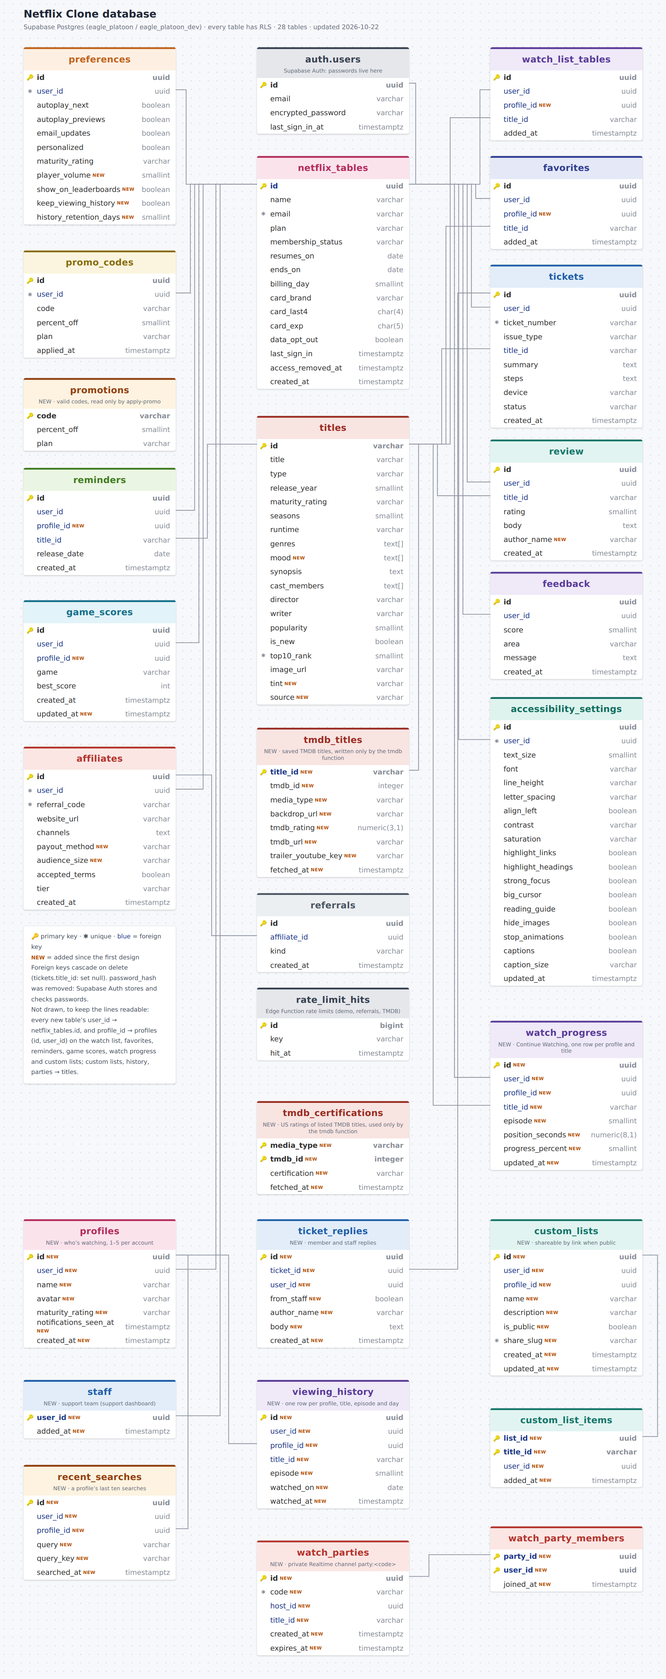
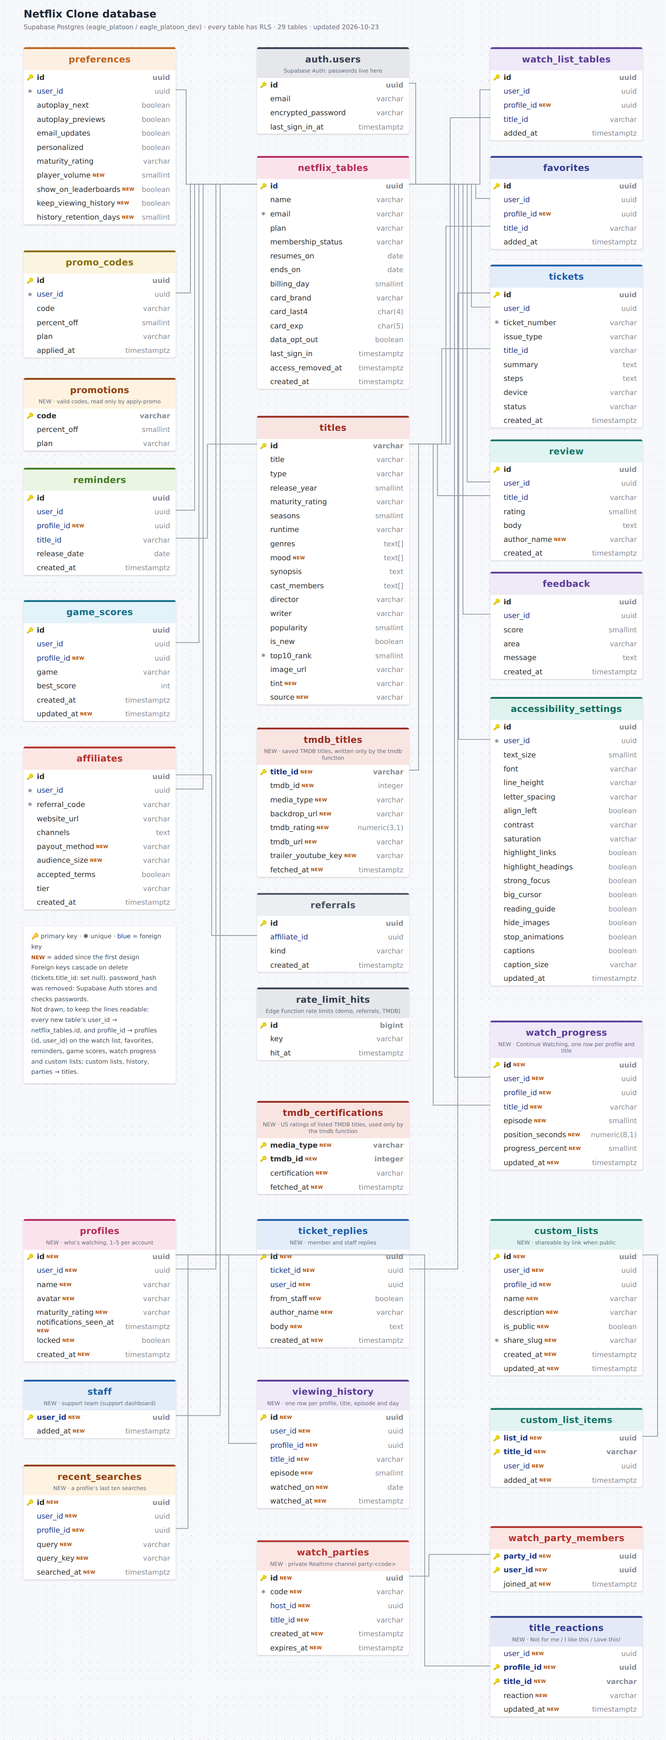
Docs, schema, diagram, user stories and seed data for the seven new features

diff --git a/supabase/diagram/erd.html b/supabase/diagram/erd.html
@@ -55,7 +55,7 @@ const tables = [
   ['tmdb_certifications', 'brick', M, 2330, ['media_type:varchar:pn', 'tmdb_id:integer:pn', 'certification:varchar:n', 'fetched_at:timestamptz:n'], 'NEW · US ratings of listed TMDB titles, used only by the tmdb function'],
   ['watch_progress', 'purple', R, 2160, ['id:uuid:pn', 'user_id:uuid:fn', 'profile_id:uuid:fn', 'title_id:varchar:fn', 'episode:smallint:n', 'position_seconds:numeric(8,1):n', 'progress_percent:smallint:n', 'updated_at:timestamptz:n'], 'NEW · Continue Watching, one row per profile and title'],
   // 2026-10-22: profiles, support, history, custom lists, watch parties, recent searches
-  ['profiles', 'pink', L, 2580, ['id:uuid:pn', 'user_id:uuid:fn', 'name:varchar:n', 'avatar:varchar:n', 'maturity_rating:varchar:n', 'notifications_seen_at:timestamptz:n', 'created_at:timestamptz:n'], 'NEW · who’s watching, 1–5 per account'],
+  ['profiles', 'pink', L, 2580, ['id:uuid:pn', 'user_id:uuid:fn', 'name:varchar:n', 'avatar:varchar:n', 'maturity_rating:varchar:n', 'notifications_seen_at:timestamptz:n', 'locked:boolean:n', 'created_at:timestamptz:n'], 'NEW · who’s watching, 1–5 per account'],
   ['staff', 'blue', L, 2920, ['user_id:uuid:pfn', 'added_at:timestamptz:n'], 'NEW · support team (support dashboard)'],
   ['recent_searches', 'amber', L, 3100, ['id:uuid:pn', 'user_id:uuid:fn', 'profile_id:uuid:fn', 'query:varchar:n', 'query_key:varchar:n', 'searched_at:timestamptz:n'], 'NEW · a profile’s last ten searches'],
   ['ticket_replies', 'blue', M, 2580, ['id:uuid:pn', 'ticket_id:uuid:fn', 'user_id:uuid:fn', 'from_staff:boolean:n', 'author_name:varchar:n', 'body:text:n', 'created_at:timestamptz:n'], 'NEW · member and staff replies'],
@@ -64,6 +64,8 @@ const tables = [
   ['custom_lists', 'teal', R, 2580, ['id:uuid:pn', 'user_id:uuid:fn', 'profile_id:uuid:fn', 'name:varchar:n', 'description:varchar:n', 'is_public:boolean:n', 'share_slug:varchar:un', 'created_at:timestamptz:n', 'updated_at:timestamptz:n'], 'NEW · shareable by link when public'],
   ['custom_list_items', 'teal', R, 2980, ['list_id:uuid:pfn', 'title_id:varchar:pfn', 'user_id:uuid:fn', 'added_at:timestamptz:n']],
   ['watch_party_members', 'red', R, 3230, ['party_id:uuid:pfn', 'user_id:uuid:pfn', 'joined_at:timestamptz:n']],
+  // 2026-10-23: thumbs ratings (profile PINs live in the private schema, outside the API)
+  ['title_reactions', 'indigo', R, 3420, ['user_id:uuid:fn', 'profile_id:uuid:pfn', 'title_id:varchar:pfn', 'reaction:varchar:n', 'updated_at:timestamptz:n'], 'NEW · Not for me / I like this / Love this!'],
 ]
 // [from table, from column, to table, to column]
 const links = [
@@ -80,10 +82,11 @@ const links = [
   ['viewing_history', 'profile_id', 'profiles', 'id'],
   ['custom_list_items', 'list_id', 'custom_lists', 'id'],
   ['watch_party_members', 'party_id', 'watch_parties', 'id'],
+  ['title_reactions', 'profile_id', 'profiles', 'id'],
 ]
 
 const board = document.getElementById('board')
-board.insertAdjacentHTML('beforeend', '<div id="title">Netflix Clone database</div><div id="sub">Supabase Postgres (eagle_platoon / eagle_platoon_dev) · every table has RLS · 28 tables · updated 2026-10-22</div>')
+board.insertAdjacentHTML('beforeend', '<div id="title">Netflix Clone database</div><div id="sub">Supabase Postgres (eagle_platoon / eagle_platoon_dev) · every table has RLS · 29 tables · updated 2026-10-23</div>')
 for (const [name, color, x, y, rows, note] of tables) {
   const [c, bg] = C[color]
   const el = document.createElement('div')

diff --git a/README.md b/README.md
@@ -29,18 +29,21 @@ Without it, the demo account lives in memory and the TMDB sections don't appear.
 
 ## What you can do
 
-- **Browse and watch:** featured carousel with previews, Continue Watching (where you stopped, saved to your account so it follows you to any device; finishing an episode moves you to the next), a Top 10 (the catalog's ranked titles, filled up to ten with TMDB's trending movies and shows), "Because You Liked…" recommendations, and title pages with synopsis, cast, crew, ratings and members' reviews. Every title plays a real sample clip from a Blender open movie, with real English captions, in a player with play/pause, seek, skip 10 seconds, mute and a volume slider (↑/↓ keys; a member's level follows them to any device), speed, previous and next episode for TV shows (Shift+P / Shift+N), full screen, closed captions, keyboard shortcuts and autoplay of the next episode.
+- **Browse and watch:** featured carousel with previews, Continue Watching (where you stopped, saved to your account so it follows you to any device; finishing an episode moves you to the next), a Top 10 (the catalog's ranked titles, filled up to ten with TMDB's trending movies and shows), "Because You Liked…" recommendations, and title pages with synopsis, cast, crew, ratings and members' reviews. Every title plays a real sample clip from a Blender open movie, with real English captions, in a player with play/pause, seek, skip 10 seconds, mute and a volume slider (↑/↓ keys; a member's level follows them to any device), speed, previous and next episode for TV shows (Shift+P / Shift+N), full screen, picture-in-picture, closed captions, keyboard shortcuts and autoplay of the next episode. Shows offer Skip Recap and Skip Intro, the progress bar marks chapters, and pointing at it previews the frame there.
 - **Discover real titles:** new, trending and popular movies and TV shows from TMDB on Home (New on TMDB alternates new movies in theaters with TV shows airing this week), TMDB titles in Search (all of them to browse with no query, or matches for a query) with the same Type, Released, genre and Sort filters, and a TMDB page for each with its poster, overview, rating, maturity rating, length, cast and crew, its trailer (from YouTube, loaded only when you press Play trailer), where to stream, rent or buy it in the U.S. (from JustWatch) and More Like This. Members can add TMDB titles to My List and Favorites and rate and review them; saving one adds a "Because You Saved…" row on Home. TMDB titles carry their real U.S. ratings, so restricted profiles see the ones that fit. They can't be played.
+- **Rate in one tap:** Not for me, I like this or Love this! on any title, per profile. Loved and liked titles shape Because You Liked; Not for me keeps a title out of recommendations.
+- **Ask what to watch:** describe what you're in the mood for ("something tense under two hours") and get up to five titles with a reason each, picked by Claude (Anthropic's AI) from the titles your profile can watch, or by matching your words when the AI service isn't available.
+- **Look back:** Year in Review sums up a profile's year (titles, episodes, hours, streak, busiest month, top genres, the actor seen most) with a summary to share.
 - **Scroll rows with a mouse:** every row on Home and More Like This has ‹ › buttons that page through it, besides swiping.
 - **Find titles:** search by title, cast or genre (misspellings still find the title: "nite shift" → Night Shift), with suggestions for titles, people and genres while you type and your recent searches when the box is empty; filter by genre, type and release year; sort by popularity, date or A–Z.
-- **Profiles:** up to five per account, including Kids profiles; each has its own lists, Continue Watching, history, game scores and maturity rating.
+- **Profiles:** up to five per account, including Kids profiles; each has its own lists, Continue Watching, history, game scores, thumbs ratings and maturity rating. Any profile can be locked with a four-digit PIN, and Kids profiles ask a grown-up for the account password before account or profile settings open.
 - **People and episodes:** actor and director pages (from TMDB, or everything a catalog actor is in); every show lists its seasons and episodes, and any episode can be played.
 - **Watch together:** start a watch party and share the invite link: play, pause and skipping happen for everyone, with who's watching and a chat (Supabase Realtime, members only).
 - **Lists and reminders:** your own named lists, shareable by link with anyone; reminders for films not out yet and a notifications bell for releases and support replies.
 - **Your history, your call:** viewing activity by day that you can hide, download, pause or have deleted after 90 days or a year.
 - **Install it:** add the app to your home screen or desktop; pages you've opened work offline.
 - **Save:** Watch list and Favorites pages (catalog and TMDB titles), custom lists, plus sharing links to titles.
-- **Sign in safely:** Supabase Auth sign-up and sign-in, strong password rules (13+ characters with lowercase, uppercase, a digit and a symbol; leaked passwords are rejected), and a **Forgot password** page that emails a reset link.
+- **Sign in safely:** Supabase Auth sign-up and sign-in, strong password rules (13+ characters with lowercase, uppercase, a digit and a symbol; leaked passwords are rejected), a **Forgot password** page that emails a reset link, optional **two-step sign-in** with an authenticator app (until the code is entered, the database shows none of your data), and a list of signed-in devices you can sign out.
 - **Manage your account:** profile, password, plan, billing (payment method, billing date, pause, cancel), autoplay previews and next episode, maturity rating, privacy permissions, and a danger zone to delete your account.
 - **Make it work for you:** an accessibility menu on every page with one-tap profiles and settings for text size, readable and dyslexia-friendly fonts, spacing, contrast, color, link and heading highlights, focus outline, big cursor, reading guide, hiding images, stopping animations and captions. Members' settings are saved and come back at sign-in.
 - **Get help:** support hub with live chat, FAQs, feedback, issue reporting with ticket numbers from the database (and support's replies, which you can answer), technical requirements and a maintenance banner. Support staff work the tickets on a support dashboard.
@@ -69,10 +72,10 @@ refresh; signing out removes it.
 
 | Piece | What it does |
 | --- | --- |
-| Postgres tables | 28 tables in `public` ([`schema.sql`](schema.sql), diagram [`drawsql.png`](drawsql.png)) with row-level security: catalog titles and reviews (including ratings) are readable by anyone, as are the TMDB titles members save (`tmdb_titles`, written only by the `tmdb` function); private account data, lists, watch progress and preferences (including the player volume and the leaderboard opt-in) are owner-only; leaderboards are read through `game_leaderboard()`, which returns opted-in first names and scores only; promotions, rate-limit hits and TMDB certifications are server-only |
+| Postgres tables | 29 tables in `public` ([`schema.sql`](schema.sql), diagram [`drawsql.png`](drawsql.png)) with row-level security: catalog titles and reviews (including ratings) are readable by anyone, as are the TMDB titles members save (`tmdb_titles`, written only by the `tmdb` function); private account data, lists, watch progress and preferences (including the player volume and the leaderboard opt-in) are owner-only; leaderboards are read through `game_leaderboard()`, which returns opted-in first names and scores only; promotions, rate-limit hits and TMDB certifications are server-only |
 | Supabase Auth | Sign-up, sign-in, password reset emails and password rules; the sign-up trigger creates the member's account, preferences and referral sign-up |
-| Edge Functions | `demo-account` (private demo accounts), `delete-account` (removes access), `apply-promo` (checks codes against `promotions`), `record-referral` (counts link clicks), `tmdb` (new, trending, popular, search and title details from TMDB with trailers, U.S. watch providers and U.S. certifications, `recommendations`, and `save`, which stores a TMDB title a signed-in member adds to a list, with the key in the project's `TMDB_API_FREE` setting); the public ones are rate limited per IP (for `tmdb`, only requests its cache can't answer count). `hello` and `multiply` are small public test endpoints. Production and dev run the same functions and migrations |
-| Database functions | `game_leaderboard()`, `staff_tickets()` / `staff_set_ticket_status()` (support staff only), `shared_list()` (public lists), `join_watch_party()`, `search_titles()` (typo-tolerant, pg_trgm), called as `/rest/v1/rpc/<name>` |
+| Edge Functions | `demo-account` (private demo accounts), `delete-account` (removes access), `apply-promo` (checks codes against `promotions`), `record-referral` (counts link clicks), `tmdb` (new, trending, popular, search and title details from TMDB with trailers, U.S. watch providers and U.S. certifications, `recommendations`, and `save`, which stores a TMDB title a signed-in member adds to a list, with the key in the project's `TMDB_API_FREE` setting); the public ones are rate limited per IP (for `tmdb`, only requests its cache can't answer count). `assistant` (What should I watch?: Claude picks from the profile's allowed titles, with the key in the project's `ANTHROPIC_API_KEY` setting; signed in and rate limited). `hello` and `multiply` are small public test endpoints |
+| Database functions | `game_leaderboard()`, `staff_tickets()` / `staff_set_ticket_status()` (support staff only), `shared_list()` (public lists), `join_watch_party()`, `search_titles()` (typo-tolerant, pg_trgm), `year_in_review()`, `set_profile_pin()` / `unlock_profile()` / `verify_account_password()` (PINs are bcrypt hashes outside the API), `my_sessions()` / `end_session()` (signed-in devices), called as `/rest/v1/rpc/<name>`. With two-step sign-in on, a restrictive policy on every table (`second_step_done()`) blocks a session until its code is entered |
 | Realtime | Watch parties: a private channel per party (`party:<code>`) for play/pause sync, presence and chat; RLS on `realtime.messages` admits only the party's members |
 | Cron jobs | Delete demo accounts after 24 hours; delete old rate-limit hits; delete viewing history past each member's limit; delete ended watch parties |
 | Projects | **eagle_platoon** (production) and **eagle_platoon_dev** (development, e2e tests and seed data) |

diff --git a/CLAUDE.md b/CLAUDE.md
@@ -27,16 +27,17 @@ netflix_clone/        The Vite app — run all npm commands here
 supabase/             Supabase CLI project (config.toml); MCP config in supabase/.mcp.json (not committed)
   migrations/         Schema + RLS, catalog titles, auth support (triggers, promotions, cleanup cron), rate limits,
                       saved TMDB titles, watch progress and leaderboards, profiles, support dashboard, notifications,
-                      viewing history, custom lists, watch parties (Realtime RLS), better search (pg_trgm)
+                      viewing history, custom lists, watch parties (Realtime RLS), better search (pg_trgm), thumbs
+                      ratings, Year in Review, profile locks, two-step sign-in (restrictive policies, devices)
   non_transactional/  CREATE INDEX CONCURRENTLY files: apply with psql after migrations (the CLI can't run them)
                       (Index Advisor is installed on both projects: dashboard → Query Performance suggests missing ones)
-  functions/          Edge Functions: demo-account, delete-account, apply-promo, record-referral, tmdb (+ _shared/: clients,
-                      CORS, caller check, per-IP rate limits via public.hit_rate_limit); hello and multiply are
+  functions/          Edge Functions: demo-account, delete-account, apply-promo, record-referral, tmdb, assistant (+ _shared/:
+                      clients, CORS, caller check, per-IP rate limits via public.hit_rate_limit); hello and multiply are
                       standalone public test endpoints
   seeds/              Development test data (6 example.com users, rows in every table); never run on production
   tests/database/     pgTAP tests (`supabase test db`): access rules, triggers, cleanup job, rate limiter, indexes
   diagram/            erd.html (source of drawsql.png) + render.mjs (`node supabase/diagram/render.mjs` redraws it)
-schema.sql, drawsql.png  The table design and its diagram, kept in step with the migrations (all 28 public tables)
+schema.sql, drawsql.png  The table design and its diagram, kept in step with the migrations (all 29 public tables)
 user_stories.md       What the database stores, one story per thing the app remembers
 prompt.md             The original build prompt and the Supabase-phase prompts
 .github/workflows/    CI: lint, build, Playwright; pgTAP against a local Supabase (Docker)
@@ -45,8 +46,9 @@ prompt.md             The original build prompt and the Supabase-phase prompts
 Supabase projects (org "Zuleika LLC", Pro plan): **eagle_platoon** `czgzptjegmkvrxnxduxs` = production,
 **eagle_platoon_dev** `cfcbhwwpslgxjpijdnfy` = development and e2e tests (has the seed data). Apply every migration,
 non_transactional file and function to dev first, then production, with the same migration version on both.
-Both run all 15 migrations (through `20261022060000_better_search`), non_transactional 001–007 and the same 7
-functions (production caught up 2026-10-21). `apply_migration` stamps the current time as the version: afterwards set
+Dev runs all 19 migrations (through `20261023030000_two_step_sign_in`), non_transactional 001–008 and 8 functions
+(with `assistant`); production runs the first 15 (through `20261022060000_better_search`), 001–007 and 7 functions.
+The `assistant` function needs the `ANTHROPIC_API_KEY` secret on each project (without it the app matches words). `apply_migration` stamps the current time as the version: afterwards set
 it to the file's version in `supabase_migrations.schema_migrations`, and apply one migration per second or less often,
 or two get the same stamp and the second fails on the duplicate version.
 Each project needs the `TMDB_API_FREE` Edge Function secret for `tmdb` (the dashboard can't show it back; the value
@@ -97,6 +99,9 @@ locally (it isn't installed in this WSL distro, so CI is where these run today).
 | (extra) Custom lists | `/lists`, `/lists/:listId`, `/shared/:slug` (public) | `pages/MyLists.jsx`, `ListDetail.jsx`, `SharedList.jsx`, `components/AddToList.jsx` |
 | (extra) Watch party | `/party/:code` | `pages/WatchParty.jsx`, `state/usePartyChannel.js`, `data/partyApi.js` |
 | (extra) Support dashboard (staff) | `/support-dashboard` | `pages/SupportDashboard.jsx`, `state/useSupportQueue.js`, `data/supportApi.js` |
+| (extra) Year in Review | `/year-in-review` | `pages/YearInReview.jsx`, `data/yearInReview.js` |
+| (extra) What should I watch? (assistant) | `/what-to-watch` | `pages/Assistant.jsx`, `data/assistant.js`, `supabase/functions/assistant` |
+| (extra) Security (two-step sign-in, devices) | in `/account` | `pages/account/Security.jsx`, `data/totp.js`, `data/devices.js` |
 
 When the outline changes: diff `app_outline/user_journey.md` (`git diff --word-diff`), map each change to this
 table, add or extend the page, add `/info/<slug>` pages to `data/infoPages.js` (that also adds the footer link)
@@ -228,6 +233,28 @@ after editing.
 - **Installable app**: `public/sw.js` (shell + hashed assets cached; network-first pages; leaves /media, other origins
   and non-GET alone) is registered in production builds (`lib/pwa.js`); the install prompt is in Account → App.
   Bump `VERSION` in sw.js when its caching rules change. Playwright blocks service workers except in `pwa.spec.js`.
+- **Thumbs ratings**: `title_reactions` per profile (`dislike`/`like`/`love`), `components/TitleReaction.jsx` on both
+  title pages, helpers in `data/reactions.js`. Loves, then favorites, then likes seed Because You Liked; `notDisliked`
+  filters every recommendation row (not Continue Watching or Top 10) and the assistant's candidates.
+- **Player extras**: `data/clips.js` gives each clip `recap`/`intro` ranges (Skip Recap from episode 2, Skip Intro;
+  key S) and `chapters`; seek previews come from `public/media/<clip>.thumbs.jpg`, drawn by
+  `node scripts/thumbnails.mjs` (re-run it when a clip changes; `THUMBS` in clips.js must match). Picture-in-picture
+  (key I) sits beside Close: the controls row is full at 390px.
+- **Profile locks / Kids**: PIN hashes live in `private.profile_pins`; `profiles.locked` changes only through
+  `set_profile_pin()` (a trigger keeps it otherwise). `unlock_profile()` returns `ok`/`wrong`/`locked` (five wrong →
+  15 minutes). `ProfileProvider` keeps unlocked profiles until another is chosen and never remembers a locked one per
+  device; `components/GrownUpGate.jsx` asks for the account password on Kids profiles (Account, profile settings).
+  `verify_account_password()` (10 per 15 minutes) also backs Change password with Supabase: signing in again would
+  replace the session and need a two-step code.
+- **Two-step sign-in**: Supabase Auth MFA (TOTP; on in `config.toml` and on both projects). With a verified factor a
+  password sign-in or restored session is aal1: the provider sets `secondStep` and Login asks for the code
+  (`verifySecondStep`). A restrictive policy "Two-step sign-in finished" on every RLS table (`second_step_done()`)
+  blocks aal1 sessions; give new tables the same policy. `callerFrom()` in the functions refuses them too. Memory mode
+  uses `data/totp.js` (the tests compute codes with it). Devices: `my_sessions()` / `end_session()` over auth.sessions.
+- **Assistant**: `supabase/functions/assistant` asks Claude (`claude-haiku-5-5`, structured output via the SDK's Zod
+  helper) to pick up to five of the profile's allowed titles; ids it invents are dropped. Signed-in only, 20/hour per
+  member and 60/hour per IP. Only the request and liked titles' names are sent. Any failure (or no key, or memory
+  mode) falls back to `matchWords()` in `data/assistant.js`, and the page says which answered.
 - **Form state**: update with functional setters and read `e.target.value` before them
   (`(e) => { const { value } = e.target; setForm((f) => ({ ...f, key: value })) }`): with transitions pending, a
   spread of the render's `form` can restore an older value.
@@ -263,6 +290,10 @@ after editing.
 - Specs for the ten features: `profiles.spec.js`, `support.spec.js`, `lists.spec.js`, `party.spec.js` (two tabs),
   `search.spec.js`, `pwa.spec.js`; people, episodes and history are in `features.spec.js`, TMDB people, seasons and
   release reminders in `tmdb.spec.js`; `supabase-auth.spec.js` checks lists and watch parties against the dev project.
+- The seven after that: thumbs ratings, Year in Review and the assistant in `features.spec.js`; skips, chapters, seek
+  previews and picture-in-picture in `accessibility.spec.js`; PINs and Kids in `profiles.spec.js`; two-step sign-in and
+  devices in `auth.spec.js`; all of them against the dev project (real TOTP) in `supabase-auth.spec.js`; database rules
+  in `supabase/tests/database/seven_features.test.sql`.
 - Header buttons are matched by exact name in tests (`'Accessibility menu', exact: true`), since "Close accessibility
   menu" also contains it.
 

diff --git a/netflix_clone/README.md b/netflix_clone/README.md
@@ -99,12 +99,13 @@ Tests serve the built app with `e2e/serve.js`, a tiny static server with SPA fal
 | Area | Routes | Highlights |
 | --- | --- | --- |
 | Auth | `/login`, `/signup`, `/logout`, `/forgot-password`, `/reset-password` | Supabase Auth (or in-memory accounts); sign-in guard that returns you to the page you wanted; plan picker; strict password rules; password reset by email; accessible inline validation |
-| Browse | `/`, `/title/:id`, `/search`, `/new` | Featured carousel with previews, maintenance banner, TV/Movie filters, Continue Watching (saved per member), Top 10, "Because You Liked…" recommendations, mock player with captions and full controls, ratings & members' reviews, share, URL-driven search filters |
+| Browse | `/`, `/title/:id`, `/search`, `/new` | Featured carousel with previews, maintenance banner, TV/Movie filters, Continue Watching (saved per member), Top 10, "Because You Liked…" recommendations, player with captions, full controls, Skip Recap / Skip Intro, chapters, seek previews and picture-in-picture, thumbs ratings, ratings & members' reviews, share, URL-driven search filters |
 | TMDB | `/tmdb/:type/:tmdbId` | Trending and popular movie and TV rows on Home, TMDB results in Search, and a page per TMDB title (poster, overview, rating, maturity, length, cast, crew, link to TMDB, trailer, where to watch, My List and Favorite, ratings and reviews, More Like This), all through the `tmdb` Edge Function |
-| Profiles & people | `/profiles`, `/people/:name`, `/tmdb/person/:personId` | Who's watching (1–5 profiles, Kids), actor and director pages |
+| Profiles & people | `/profiles`, `/people/:name`, `/tmdb/person/:personId` | Who's watching (1–5 profiles, Kids, PIN locks; Kids profiles ask a grown-up before settings), actor and director pages |
+| Discover | `/what-to-watch`, `/year-in-review` | What should I watch? (Claude via the `assistant` function, or word matching), Year in Review with a shareable summary |
 | Together | `/lists`, `/lists/:listId`, `/shared/:slug`, `/party/:code` | Custom lists shareable by link (public page for anyone), watch parties over Supabase Realtime with presence and chat |
 | Activity | `/notifications`, `/history`, `/support-dashboard` | Notifications bell (released reminders, support replies), viewing activity with privacy controls, the support team's ticket queue |
-| Library | `/my-netflix`, `/watchlist`, `/favorites`, `/account` | Watch list & Favorites pages; profile, password, plan, billing (payment method, billing date, pause, cancel), autoplay, maturity, accessibility and privacy settings, danger zone (delete account) |
+| Library | `/my-netflix`, `/watchlist`, `/favorites`, `/account` | Watch list & Favorites pages; profile, password, plan, billing (payment method, billing date, pause, cancel), autoplay, maturity, accessibility and privacy settings, Security (two-step sign-in, signed-in devices), danger zone (delete account) |
 | Games | `/games`, `/games/:gameId` | Poster Match (`memory`), Plot Twist (`trivia`), Timeline (`timeline`), Cast Call (`cast`), Higher or Lower (`higher-lower`) and Title Scramble (`scramble`), with best scores (saved with Supabase) and opt-in leaderboards (first names only) |
 | Help & legal | `/info/:slug` | Support hub with live-chat mock, FAQs, Feedback, Issue Reporting, Promotions (working promo codes), Technical Requirements, AI Integration, Affiliate Program (join, referral dashboard, tiered commissions, marketing materials), Legal & Privacy hub, Terms, Privacy, Do Not Sell, Accessibility Policy |
 

diff --git a/user_stories.md b/user_stories.md
@@ -60,3 +60,10 @@ These stories are what the Supabase database stores (see `schema.sql`, `drawsql.
 52. As a member, I want to start a watch party for a title and invite friends by link, so that play, pause and skipping happen for all of us, we see who's watching and can chat; only the party's members can join it, and it ends after six hours.
 53. As a user, I want search to find titles even when I misspell them, so that a typo doesn't hide what I'm looking for.
 54. As a member, I want my recent searches (the last ten, per profile) to come back in an empty search box until I clear them, so that I can repeat a search quickly.
+55. As a member, I want to rate a title Not for me, I like this or Love this! in one tap, so that recommendations follow my taste and titles I don't want stop being suggested to my profile.
+56. As a viewer of a TV show, I want Skip Recap and Skip Intro buttons, chapter marks on the progress bar and a picture of the frame I'm pointing at, so that I get to the part I want quickly; and picture-in-picture, so that I can keep watching while I browse.
+57. As a member, I want a Year in Review for each profile (titles, episodes and hours watched, my longest streak, busiest month, top genres and the actor I saw most) that I can share, so that I can look back on what I watched.
+58. As a parent, I want to lock my profile with a four-digit PIN (set with the account password), and Kids profiles to need the account password before account settings or profile management open, so that children stay in their own profile; five wrong PINs lock the profile for 15 minutes.
+59. As a member, I want two-step sign-in with an authenticator app, so that my password alone isn't enough to get into my account; until the code is entered, none of my data can be read.
+60. As a member, I want to see which devices are signed in to my account and sign out any of them, or all but this one, so that a lost phone or a shared computer can't keep using my account.
+61. As a member who doesn't know what to watch, I want to describe what I'm in the mood for in my own words and get a few titles with a reason each, chosen only from titles my profile can watch, and to know what is sent to the AI service, so that I find something quickly without giving away who I am.
